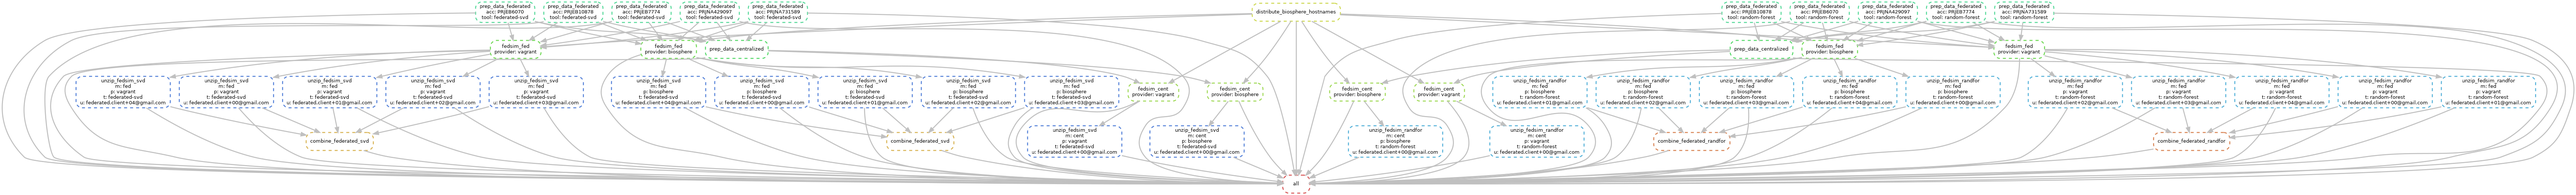
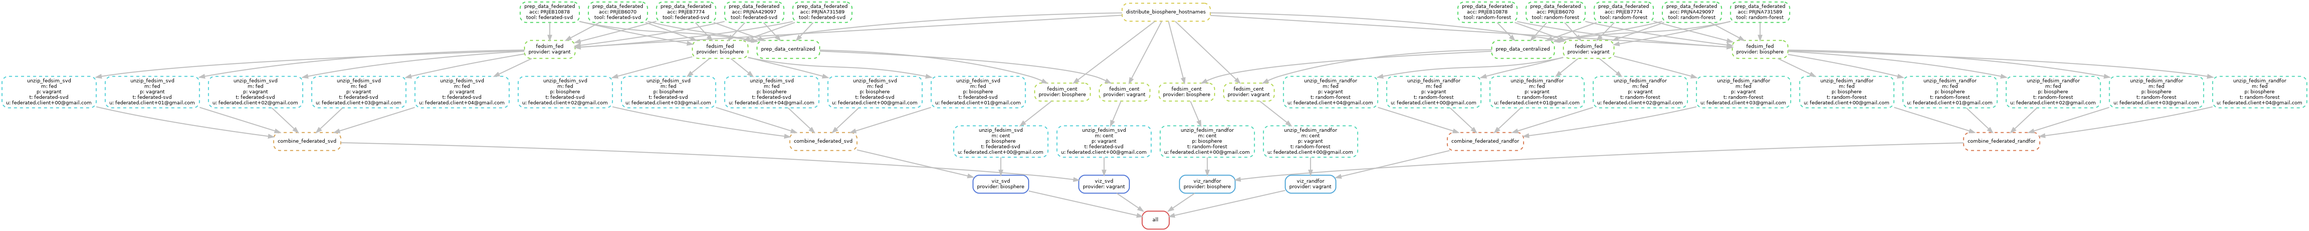
add visualisations to workflow

diff --git a/analysis/workflow/scripts/combine_federated_randfor.py b/analysis/workflow/scripts/combine_federated_randfor.py
@@ -25,7 +25,7 @@ for fl_pred, fl_prob, fl_true, acc in zip(all_files_pred, all_files_prob, all_fi
     df = pd.concat([df_true, df_prob, df_pred], axis=1)
     # extract client identifier from file path and add accession
     # df['client'] = f'{fl_pred.split('/')[2]} - {acc}'  
-    df['client'] = acc 
+    df['client'] = acc  # type: ignore
     dfs.append(df)
 combined = pd.concat(dfs, ignore_index=True)
 combined.to_csv(args.output, index=False)

diff --git a/analysis/workflow/scripts/combine_federated_svd.py b/analysis/workflow/scripts/combine_federated_svd.py
@@ -21,7 +21,7 @@ for fl, acc in zip(all_files, accs):
     # name first column "sample"
     df = df.rename(columns={df.columns[0]: "sample"})
     # extract client identifier from file path and add accession
-    df['client'] = f'{fl.split('/')[2]} - {acc}'  
+    df['client'] = acc
     dfs.append(df)
 combined = pd.concat(dfs, ignore_index=True)
 combined.to_csv(args.output, index=False)

diff --git a/analysis/README.md b/analysis/README.md
@@ -49,8 +49,7 @@ all configurable parameters of the workflow are in
 
 ## Steps
 
-`snakemake --rulegraph | dot -Tpng > rulegraph.png`
-`snakemake --dag | dot -Tpng > jobgraph.png`
+`snakemake --rulegraph | dot -Tpng > rulegraph.png && snakemake --dag | dot -Tpng > jobgraph.png`
 
 <img src="figs/rulegraph.png" alt="rulegraph" width="500"/>
 
@@ -117,7 +116,7 @@ The requirements are not fully pinned though, so there's no easy way to reproduc
 ## Results
 
 
-<img src="figs/embedding_combo.png" alt="embedding" width="600"/>
+<img src="figs/viz_vagrant_federated-svd.png" alt="embedding" width="500"/>
 
 Embedding of downsampled species signal features for a centralised analysis (A), and a federated run with 5 clients (B). The embeddings are identical for both executions. The input features were randomly downsampled to 5%, i.e. ~130 columns, to save on execution time.
 
@@ -130,7 +129,7 @@ Embedding of downsampled species signal features for a centralised analysis (A),
 <br>
 
 
-<img src="figs/randfor.png" alt="randfor" width="800"/>
+<img src="figs/viz_vagrant_randfor.png" alt="randfor" width="700"/>
 
 Results of random forest classification for a centralised versus federated analysis. 
 The input data was downsampled to 5% of the total features, and the training and test data are equivalent. 
